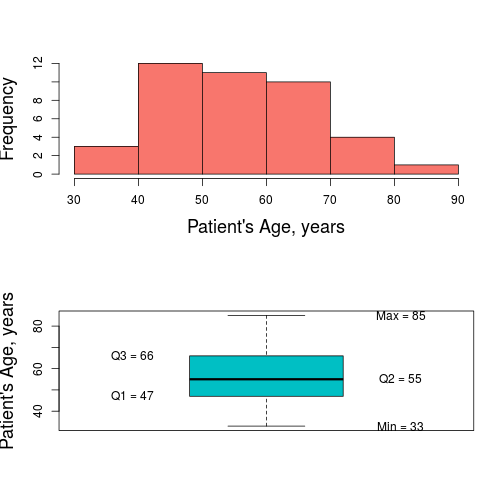
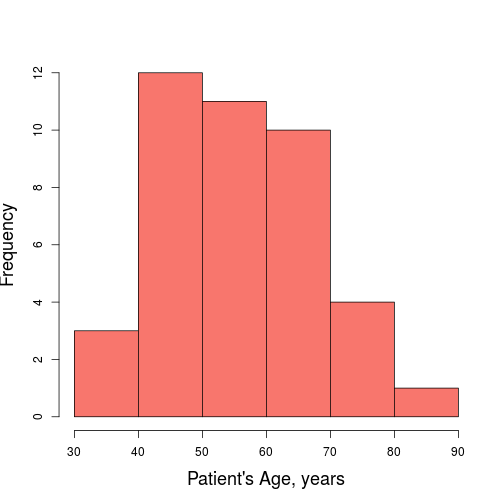
Fixed Rmd

diff --git a/README.md b/README.md
@@ -1,6 +1,6 @@
 ## Paradoxical Tumors in Penile Cancer
 
-### Aim of the study
+### Summary
 The aim of this study is to report the clinicopathologic and outcome features of superficial high-grade and deep low-grade penile squamous cell carcinomas. For this, we used a retrospectively-colleted series of patients with penile cancer, in which we identified 41 cases corresponding to 12 superficial high-grade tumors and 29 deep low-grade tumors. As outcomes we evaluated inguinal lymph node status, presence of tumor relapse, final nodal status, and cancer-specific death. Follow-up ranged from 0.8 to 386.7 months (mean, 152.5 months; median, 157.3 months). Clinicopathologic features were similar between superficial high-grade and deep low-grade tumors, except for a tendendy (Fisher’s exact P = 0.057) of the former to include tumors with a verruciform pattern of growth. A significantly higher proportion of inguinal lymph node metastasis was found in superficial high-grade tumors compared to deep low-grade tumors (80% vs. 20% respectively, Fisher’s exact P = 0.02). No significant differences were found regarding tumor relapse (Fisher’s exact P = 0.52), final nodal status (Mantel-Cox’s P = 0.42), or cancer-related death (Mantel-Cox’s P = 0.52). Our findings suggest that patients with superficial high-grade tumors may be treated differently from patients with deep low-grade tumors, at least to control short-term local disease. Prophylactic inguinal lymphadenectomuy might be indicated in cases of superficial tumors with high-grade histology while in deeply invasive low-grade penile carcinomas a more conservative approach may be considered.
 
 ### Description of the repository
@@ -205,7 +205,7 @@ Var <- Data$Size
 numerical.plot(Var, label = "Tumor Size, cm")
 ```
 
-![plot of chunk Size](figure/Size-1.png) 
+![plot of chunk Size](figure/Size-1.png) ![plot of chunk Size](figure/Size-2.png) 
 
 ```r
 descriptive.numerical(Var)
@@ -233,7 +233,7 @@ Var <- Data$Age
 numerical.plot(Var, label = "Patient's Age, years")
 ```
 
-![plot of chunk Age](figure/Age-1.png) 
+![plot of chunk Age](figure/Age-1.png) ![plot of chunk Age](figure/Age-2.png) 
 
 ```r
 descriptive.numerical(Var)
@@ -430,7 +430,7 @@ Var <- Data$FollowUp
 numerical.plot(Var, label = "Follow-Up, Months")
 ```
 
-![plot of chunk FollowUp](figure/FollowUp-1.png) 
+![plot of chunk FollowUp](figure/FollowUp-1.png) ![plot of chunk FollowUp](figure/FollowUp-2.png) 
 
 ```r
 descriptive.numerical(Var)
